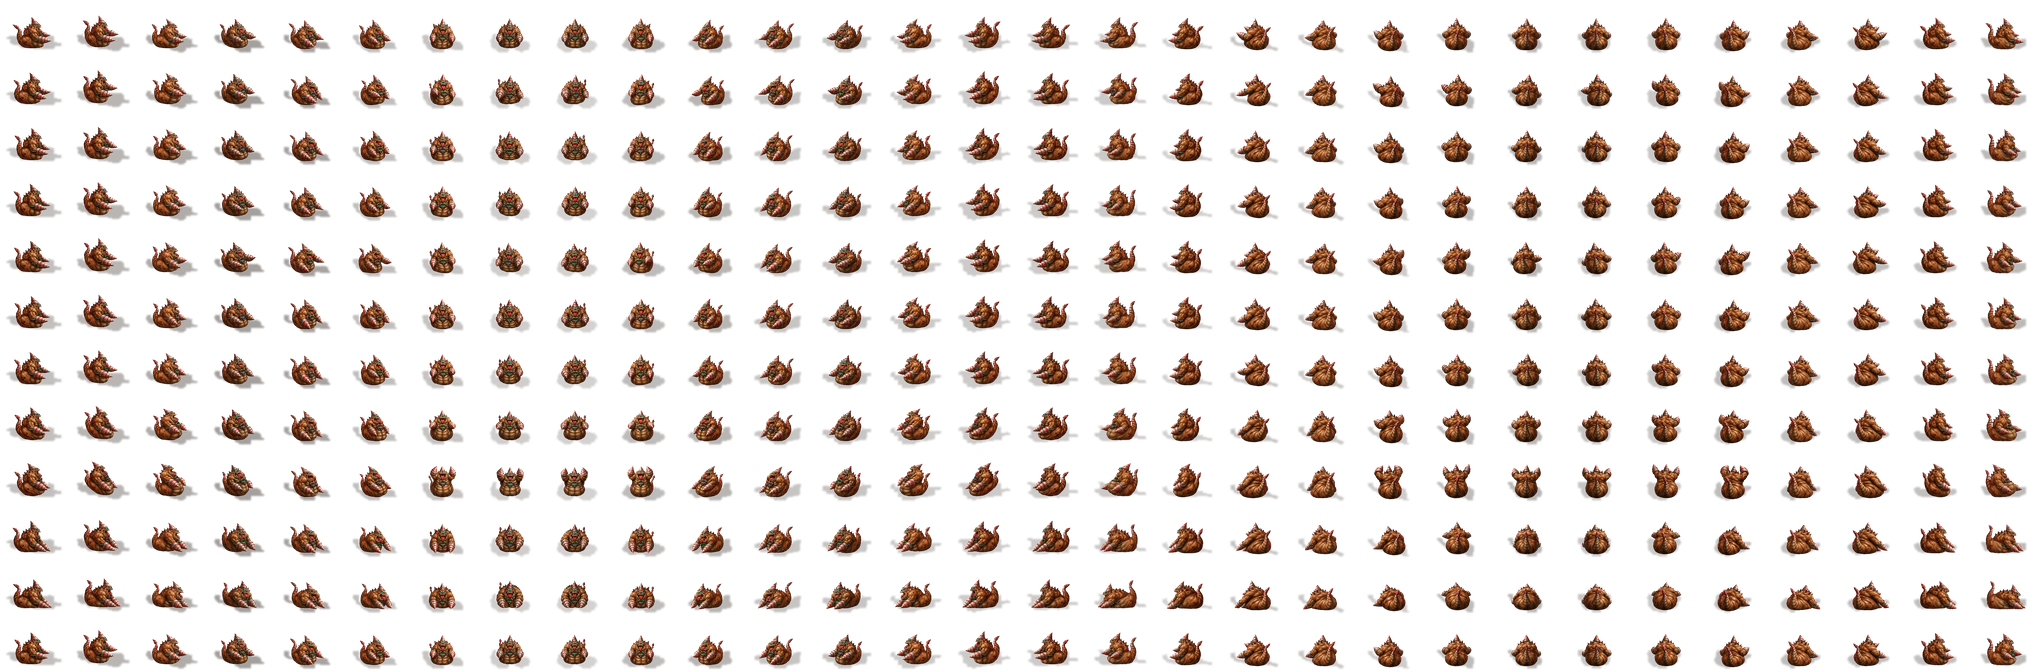
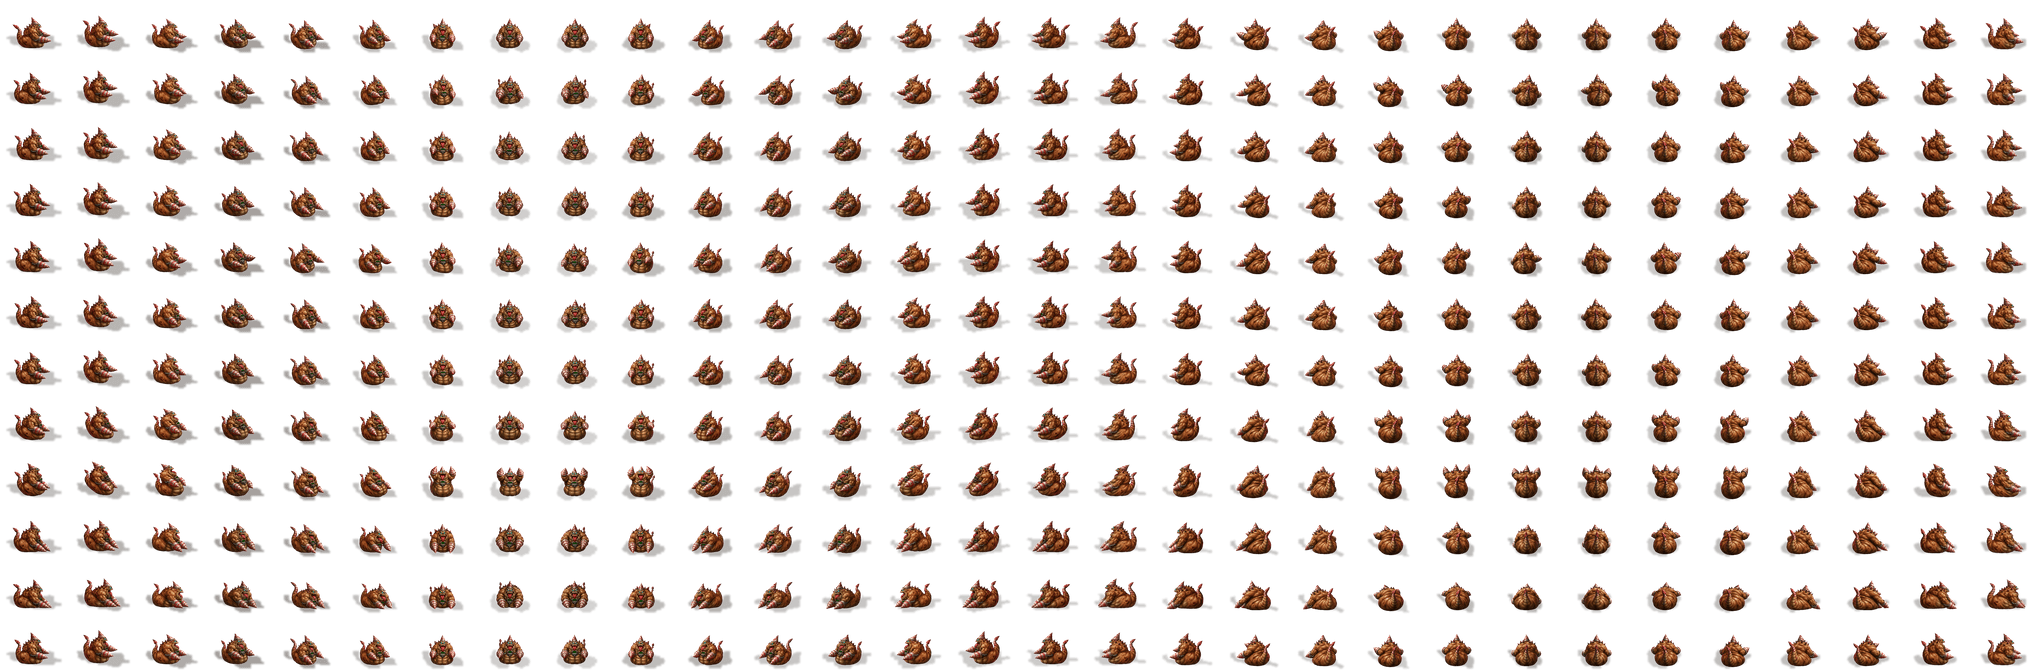
King Wormzer (IC8): repaint the attack of headings 16 and 20 (and mirrors 29, 25)
h16 turned its chest box and both eyes toward the viewer in the wind-up (anticipation and wind-up
cells); the redo keeps the face in profile and the chest box hidden as in the still. h20 lunged
sideways toward the lower left on one drill in the strike and follow-through, which read as a turn;
the redo keeps the back view and tips the body forward away from the viewer with both drills at the
sides. Walk rows of those two headings come from the same new Codex sheets. No frame touches its cell
edge. Codex calls: 2.

Claude-Session: https://claude.ai/code/session_01YTHpmxqo3agdo7MyCCqmwe

diff --git a/web/src/game/attack/sheetVersions.ts b/web/src/game/attack/sheetVersions.ts
@@ -87,9 +87,9 @@ export const SHEET_VERSIONS: Readonly<Record<string, string>> = {
   "monsters/sabnox-anim@4x.png": "1edp5",
   "monsters/sabnox-anim@2x.png": "fzam",
   "monsters/sabnox-anim.png": "4s25",
-  "monsters/kingwormzer-anim@4x.png": "2a1op",
-  "monsters/kingwormzer-anim@2x.png": "ovj3",
-  "monsters/kingwormzer-anim.png": "7f2d",
+  "monsters/kingwormzer-anim@4x.png": "2a9h2",
+  "monsters/kingwormzer-anim@2x.png": "otu3",
+  "monsters/kingwormzer-anim.png": "7cw6",
   "monsters/ape_1-repaint@4x.png": "2lpjk",
   "monsters/ape_1-repaint@2x.png": "qtol",
   "monsters/ape_1-repaint.png": "82zk",
